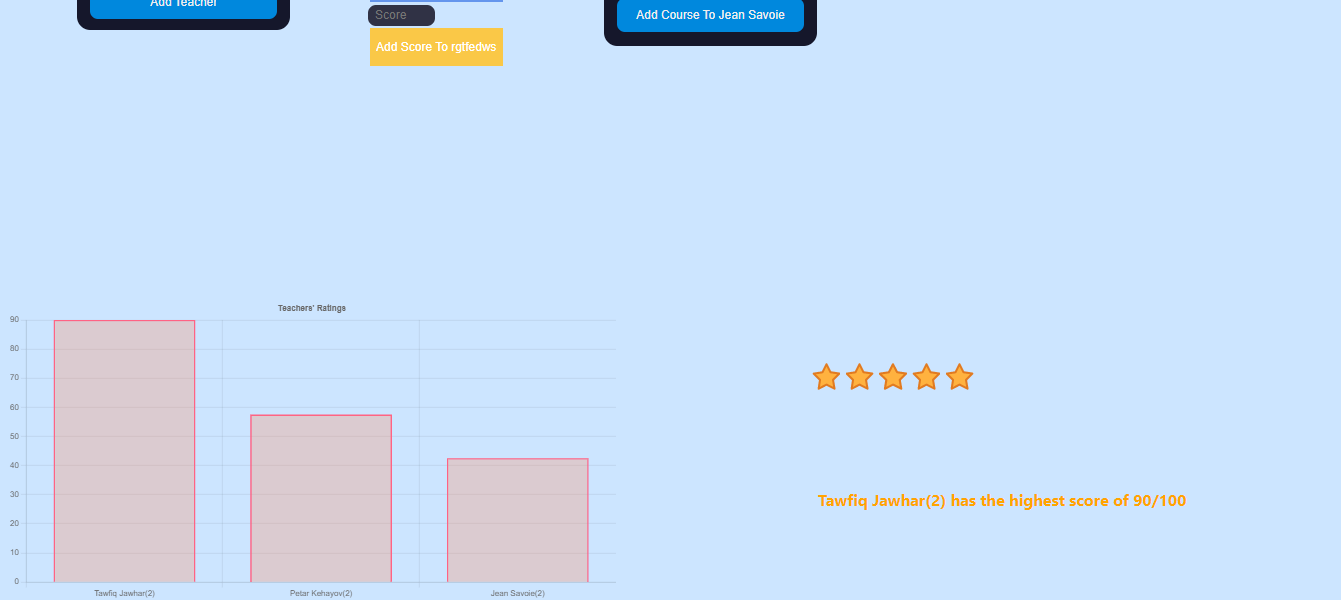
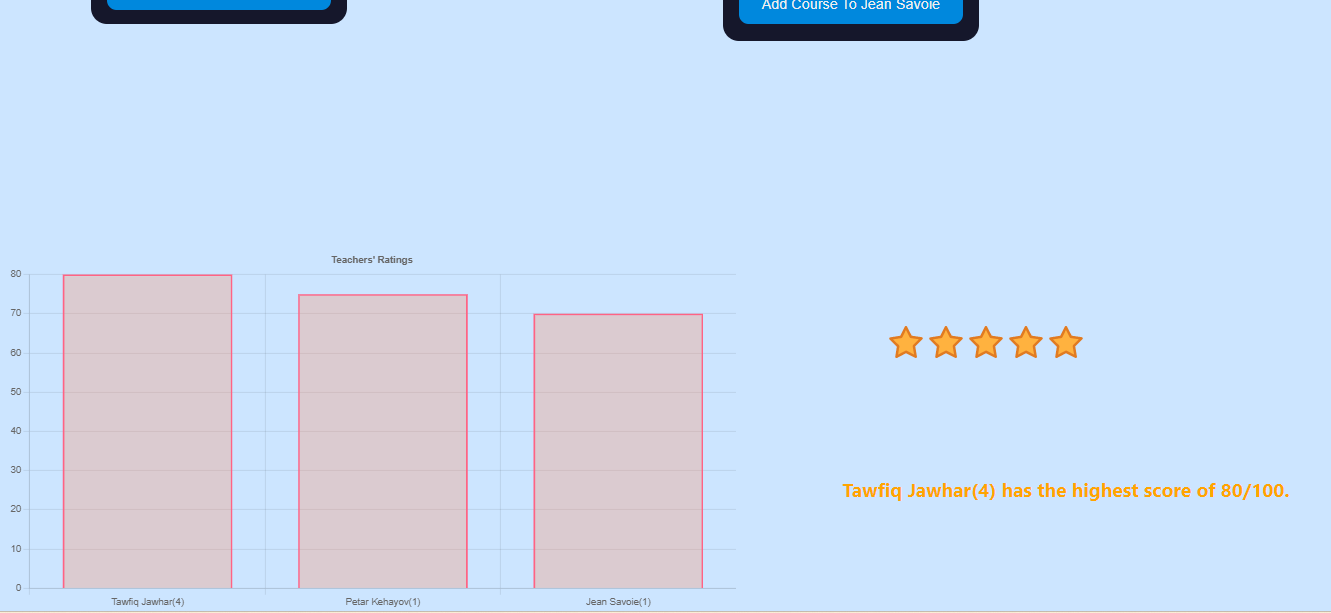
final touch-ups

diff --git a/src/Components/TeacherList.js b/src/Components/TeacherList.js
@@ -23,7 +23,7 @@ function TeacherList() {
 
   const [errorMessage, setErrorMessage] = useState("");
   const [teachers, setTeachers] = useState([]);
-  const [selectedItem, setSelectedItem] = useState(-1);
+  const [selectedTeacher, setSelectedTeacher] = useState(-1);
 
   useEffect(() => {
     loadTeachers();
@@ -138,8 +138,8 @@ function TeacherList() {
               teacherName={teacher.fullName}
               deleteTeacher={deleteTeacher}
               id={teacher.id}
-              selectedItem={selectedItem}
-              setSelectedItem={setSelectedItem}
+              selectedTeacher={selectedTeacher}
+              setSelectedTeacher={setSelectedTeacher}
             ></Teacher>
           );
         })}

diff --git a/src/Components/Teacher.js b/src/Components/Teacher.js
@@ -8,8 +8,8 @@ function Teacher({
   teacherName,
   deleteTeacher,
   id,
-  selectedItem,
-  setSelectedItem,
+  selectedTeacher,
+  setSelectedTeacher,
 }) {
   const isPhoneScreen = useMediaQuery({ query: "(max-width: 820px)" });
 
@@ -26,12 +26,12 @@ function Teacher({
       <button
         className={isPhoneScreen ? "buttonTeacherResponsive" : "buttonTeacher"}
         onClick={() => {
-          setSelectedItem(id);
+          setSelectedTeacher(id);
         }}
       >
         {teacherName}
       </button>
-      {selectedItem === id && (
+      {selectedTeacher === id && (
         <CourseList
           teacherId={teacherId}
           teacherName={teacherName}

diff --git a/src/App.js b/src/App.js
@@ -84,7 +84,7 @@ function App() {
         setTeacherWithHighestScore(teacherWithHighestScore);
         setTeacherFiveStars(
           teacherWithHighestScore +
-            "has the highest score of " +
+            " has the highest score of " +
             highestScore +
             "/100."
         );

diff --git a/README.md b/README.md
@@ -3,23 +3,29 @@
 ## Project Description
 
 ### Application's purpose
-The Greatest Teacher application provides an easy way to rate teachers and view their performances. The UI provides a list of teachers and a form to add teachers. A teacher can be deleted with the X button on its left. When a teacher gets clicked, a list of their courses appears. A form to add a course to the specific teacher also gets displayed. When a course gets clicked, a form to add a score appears. After submitting a score, the bar chart below will update with the new performance of the teachers. There is also a five-star label that shows the best teacher. This label also gets updated with every score input. The number of votes that a teacher received is indicated in parentheses next to its name. Hence, a student can view and add teachers, view and add courses to teachers, add scores to the courses, and view the best teacher.
+
+The Greatest Teacher application provides an easy way to rate teachers and view their performances. The UI provides a list of teachers and a form to add teachers. A teacher can be deleted with the X button on its left. When a teacher gets clicked, a list of their courses appears. A form to add a course to the specific teacher also gets displayed. When a course gets clicked, a form to add a score appears. Below this form, there is another form that allows the name of the course to be changed. After submitting a score, the bar chart at the bottom of the screen will update with the new performances of the teachers. There is also a five-star label that shows the best teacher. This label also gets updated according to the scores' inputs. The number of votes that a teacher received is indicated in parentheses next to their name. Hence, a student can view and add teachers, view and add courses to teachers, add scores to the courses, and view the best teacher.
 
 #### Screenshots of application in desktop view:
-![Display of teachers, courses and score's form](initialStateApp.png)
-![Display of bar chart and five stars teacher](chart.png)
+
+![Initial UI](initialStateApp.png)
+![UI when a teacher gets clicked](teacherIsClicked.png)
+![UI when a course gets clicked](courseIsClicked.png)
+![UI with the rating chart](chart.png)
 
 #### Screenshots of application in mobile view:
-![Display of teachers' list ](mobile1.png)
-![Display of bar chart and five stars teacher ](mobile2.png)
+
+![Initial UI in mobile view](mobileInitial.png)
+![UI when course gets clicked](mobilecourseClicked.png)
+![UI with the rating chart](mobileChart.png)
 
 ### Technologies Used When Building The Application
 
-The back end is based on the Spring Boot framework and Gradle, a build automation tool. The dependencies used are Spring Web, Spring Boot DevTools, Lombok, Spring Data JPA, and H2 Database. Axios is used to make HTTP requests from the front end to the back end. The front end is built with HTML and CSS.
+The back end is based on the Spring Boot framework and Gradle, a build automation tool. The dependencies used are Spring Web, Spring Boot DevTools, Lombok, Spring Data JPA, and H2 Database. Axios is used to make HTTP requests from the front end to the back end. The front end relies on React and three React libraries (React Hook Form, Chart.js, and React Rating), as well as on HTML and CSS.
 
 ### Running the Project
 
-To run the project, the back end must be running so the entities and the endpoints are accessible. Then, in the front end, by clicking on the teachers, the courses, or the submit buttons of the forms, it is possible to make different requests with Axios. For a more detailed explanation of the back end, please click here: https://github.com/Mila5847/TheGreatestTeacher_BackEnd.git.
+To run the project, the back end must be running so the entities and the endpoints are accessible. Then, in the front end, by clicking on the teachers, the courses, or the submit buttons of the forms, it is possible to make different requests with Axios. For a more detailed explanation of the back end, please visit the back-end repository at https://github.com/Mila5847/TheGreatestTeacher_BackEnd.git.
 
 ### Challenges and Features for Future Implementation
 
@@ -29,7 +35,7 @@ To run the project, the back end must be running so the entities and the endpoin
 
 The vanilla JS code that I used:
 
-``` javascript
+```javascript
 <button className="buttonTeacher"
           onClick={() => {
             setDisplayMode(!display)
@@ -56,17 +62,44 @@ The vanilla JS code that I used:
 
 The refactored version is way simpler and clearer:
 
-``` javascript
-<button className={isPhoneScreen ? "buttonTeacherResponsive" : "buttonTeacher"}
-        onClick={() => {
-          setSelectedItem(id);
-        }}>
+In TeacherList.js (the TeacherList component displays the list of teachers)
+
+```javascript
+<div className={isPhoneScreen ? "" : "teachers"}>
+  {teachers.map((teacher) => {
+    return (
+      <Teacher
+        teacher={teacher}
+        teacherId={teacher.id}
+        teacherName={teacher.fullName}
+        deleteTeacher={deleteTeacher}
+        id={teacher.id}
+        selectedItem={selectedItem}
+        setSelectedItem={setSelectedItem}
+      ></Teacher>
+    );
+  })}
+</div>
+```
+
+In Teacher.js (the Teacher component which displays the teacher's button and the courses' list. The selectedTeacher is set on the onClick button of the teacher)
+
+```javascript
+<button
+  className={isPhoneScreen ? "buttonTeacherResponsive" : "buttonTeacher"}
+  onClick={() => {
+    setSelectedItem(id);
+  }}
+>
+  {teacherName}
 </button>
 ```
-2. I also had difficulty setting up the bar chart from the Chart.js library in React. I needed to update the bar chart every time a score was inputted. However, the charting library has its particularities and the way to update the data was not obvious. After some research, I found a specific way of updating the chart's data with useState. 
+
+2. I also had difficulty setting up the bar chart from the Chart.js library in React. I needed to update the bar chart every time a score was inputted. However, the charting library has its particularities and the way to update the data was not obvious. After some research, I found a specific way of updating the chart's data with useState.
 3. Another thing on which I spend a lot of time is the teachers' list display. Since some components get displayed when other components are clicked, there are a lot of "nested" returns and some components were displaced. I just needed to properly define the style for each component so it does not interfere with the other components' style.
 
 #### Features for Improvement
-1. I would like to have only one form to add a course to a specific teacher, instead of having the same form displayed every time a teacher is clicked. I would like it to be like the form to add a teacher with the only difference being that it would be on the right side of the screen.
+
+1. I would like to have only one form to add a course to a specific teacher, instead of having the same form displayed every time a teacher is clicked. I would like it to be similar to the form that adds teachers with the only difference being that it would be on the right side of the screen.
 2. I would like to be able to export a file with the teachers' performances. I think that a summary of the teachers' performance could be useful to easily analyze the data and generate some statistics.
 3. I would like to implement a feature that allows a person to delete a teacher only if you have specific permission. For example, the user must enter a password before being able to delete a teacher.
